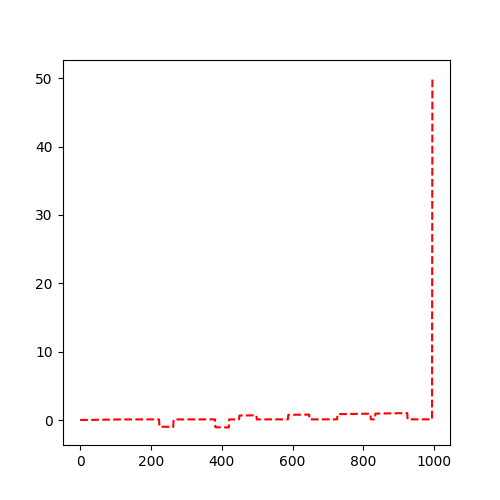
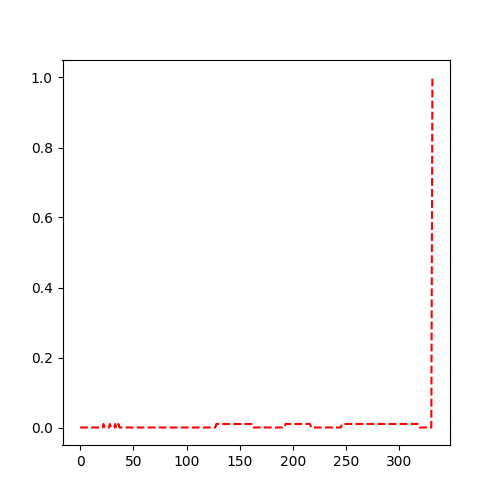
commit sync exp 11 code

diff --git a/simulations/maze_env.py b/simulations/maze_env.py
@@ -547,7 +547,7 @@ class MazeEnv(gym.Env):
         next_pos = self.wrapped_env.get_xy()
         collision_penalty = 0.0
         if self._is_in_collision():
-            collision_penalty += -0.4 * self._inner_reward_scaling
+            collision_penalty += -0.1 * self._inner_reward_scaling
         next_obs = self._get_obs()
         inner_reward = self._inner_reward_scaling * inner_reward
         if isinstance(next_obs, dict):
@@ -559,10 +559,10 @@ class MazeEnv(gym.Env):
         index = self.__get_current_cell()
         self._current_cell = index
         if done:
-            outer_reward += 20
+            outer_reward += 1.0
         if self.t > self.max_episode_size:
             done = True
-            outer_reward += -20 
+            outer_reward += -1.0
         reward = inner_reward + outer_reward + collision_penalty
         info['inner_reward'] = inner_reward
         info['outer_reward'] = outer_reward

diff --git a/simulations/maze_task.py b/simulations/maze_task.py
@@ -384,9 +384,9 @@ class CustomGoalReward4Rooms(GoalReward4Rooms):
     def reward(self, obs: np.ndarray, pos: np.ndarray) -> float:
         reward = 0.0
         for i, goal in enumerate(self.goals):
-            sign = -0.1
+            sign = -0.01
             if i == self.goal_index:
-                sign = 0.1
+                sign = 0.01
             if goal.inframe(obs):
                 reward += goal.reward_scale * sign * (
                     1 + sign * (1 - np.linalg.norm(pos[: goal.dim] - goal.pos) / (np.linalg.norm(goal.pos)))

diff --git a/simulations/point.py b/simulations/point.py
@@ -54,8 +54,8 @@ class PointEnv(AgentModel):
             self.sim.step()
         next_obs = self._get_obs()
         pos = self.get_xy().copy()
-        reward = (np.linalg.norm(pos - prev_pos) / self.dt) / (self.VELOCITY_LIMITS * 1.2 * np.sqrt(2))
-        return next_obs, reward, False, {}
+        #reward = (np.linalg.norm(pos - prev_pos) / self.dt) / (self.VELOCITY_LIMITS * 1.2 * np.sqrt(2))
+        return next_obs, 0.0, False, {}
 
     def _get_obs(self):
         return np.flipud(self.sim.render(

diff --git a/test_env.py b/test_env.py
@@ -2,7 +2,7 @@ from simulations.maze_env import MazeEnv
 from simulations.collision_env import CollisionEnv
 from simulations.point import PointEnv
 from simulations.maze_task import CustomGoalReward4Rooms
-env = CollisionEnv(PointEnv, CustomGoalReward4Rooms)
+env = MazeEnv(PointEnv, CustomGoalReward4Rooms)
 import numpy as np
 import matplotlib.pyplot as plt
 import cv2
